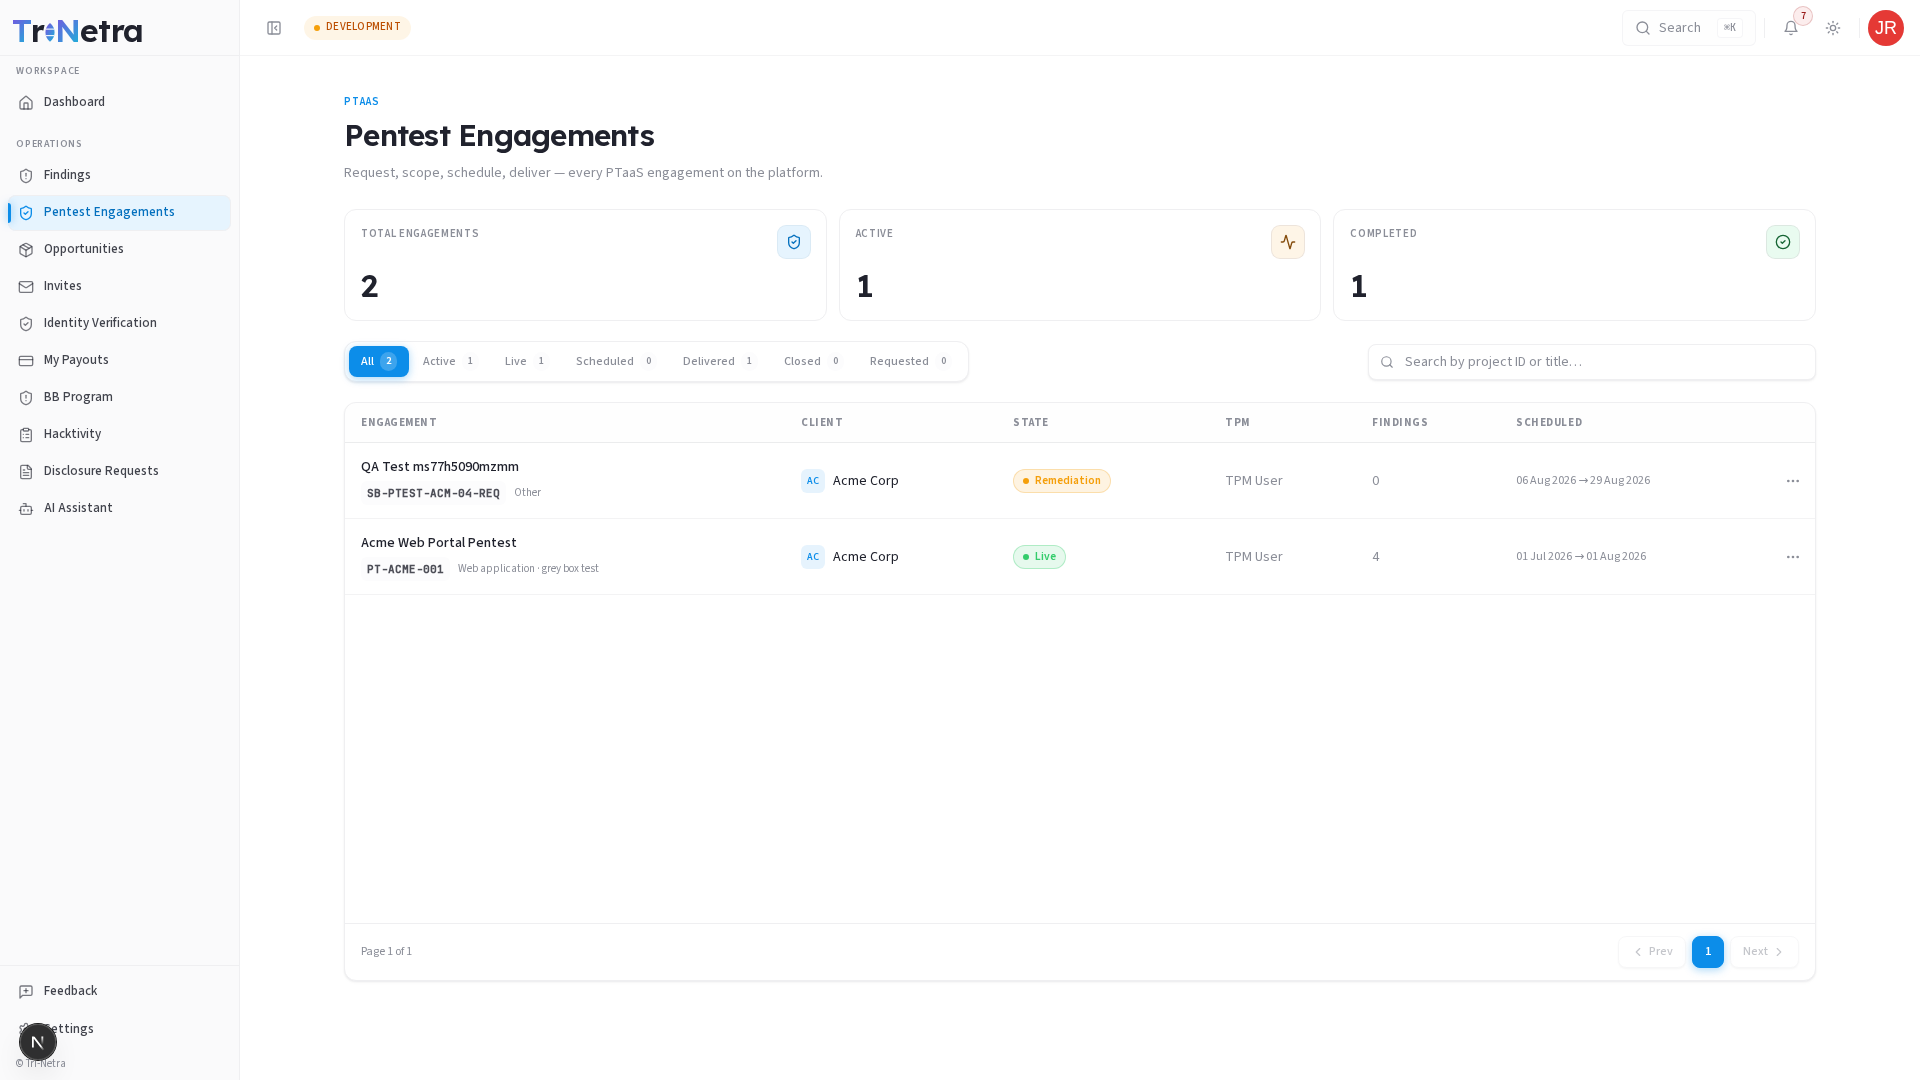
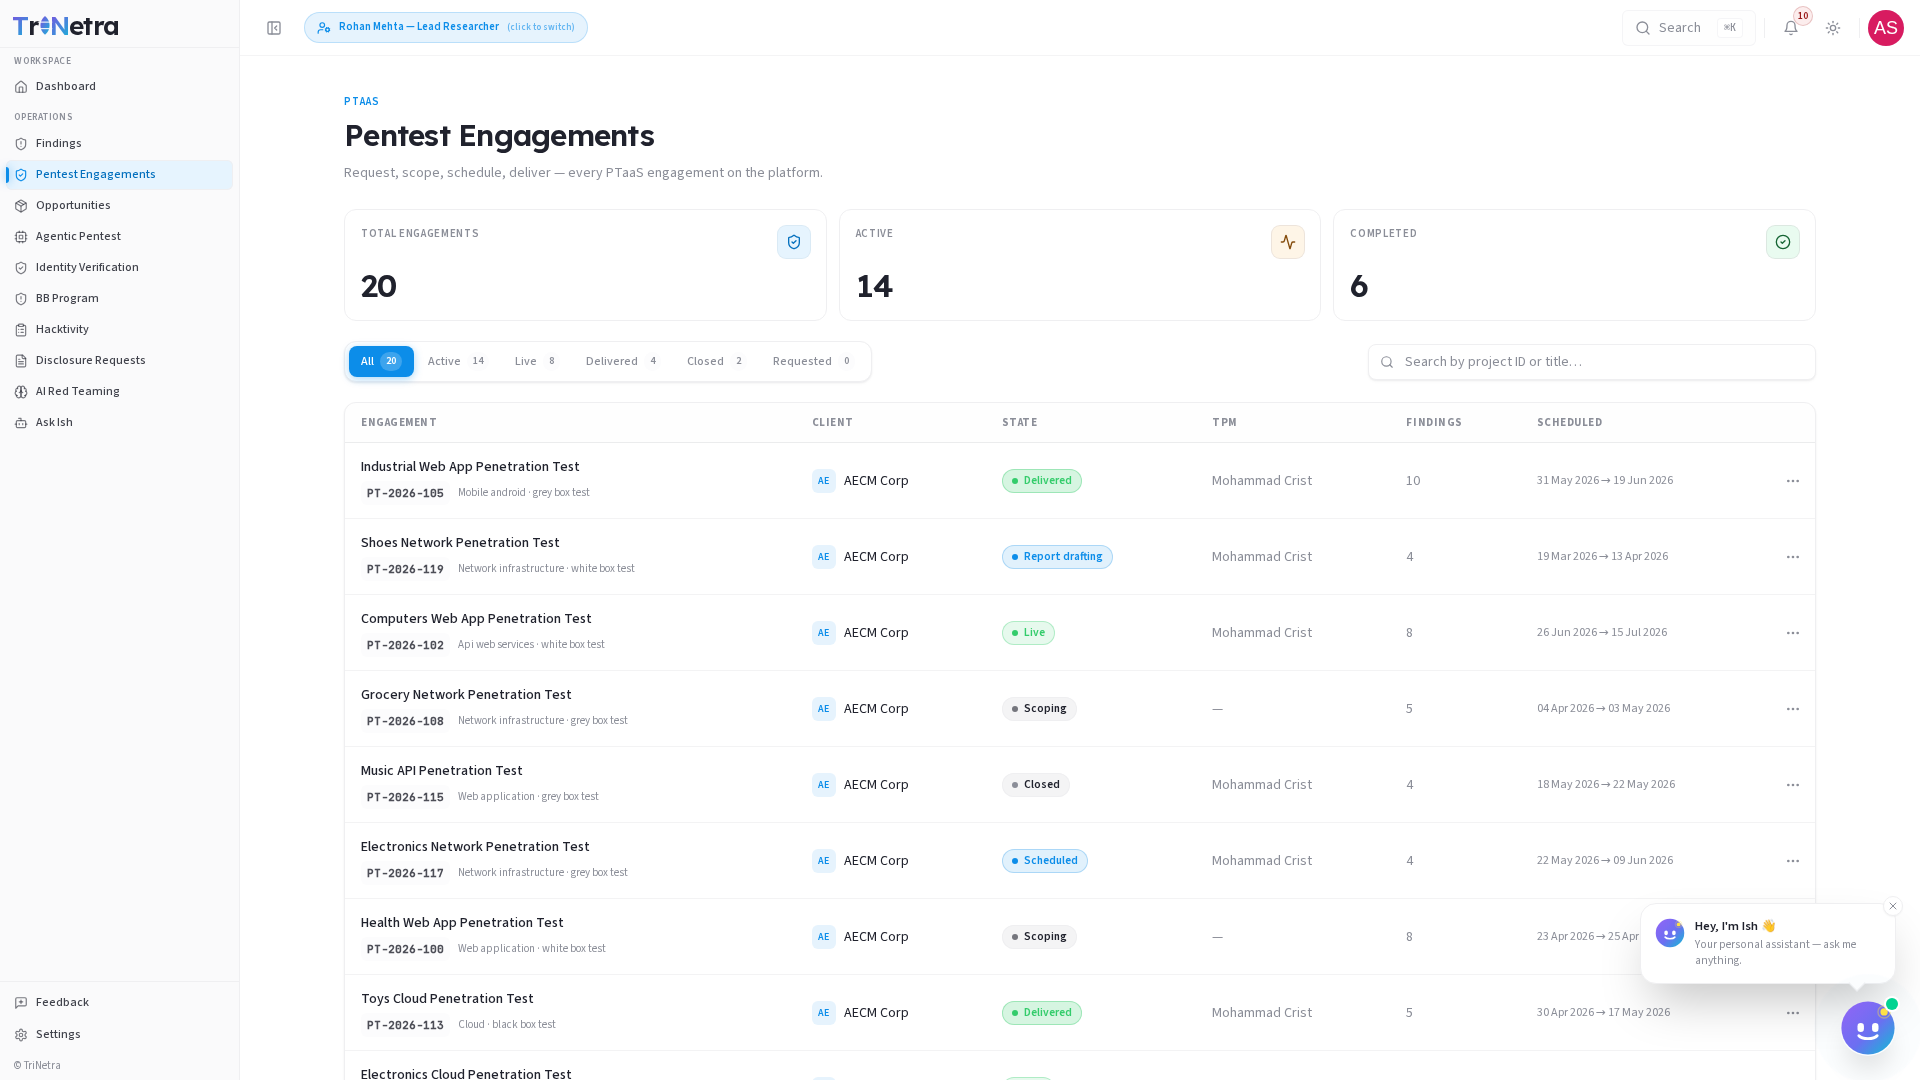
Add in-depth researcher engagement reports page and update navigation

diff --git a/docs/researcher/engagements/detail/reports.md b/docs/researcher/engagements/detail/reports.md
@@ -1,0 +1,87 @@
+# Reports
+
+The **Reports** tab is a secure, collaborative workspace on the engagement details page. It is visible to the **Lead Researcher**, **TPM**, **CSM**, **Admins**, and **Client** roles.
+
+> [!IMPORTANT]
+> **Role Restriction**: Standard **Researchers** do not have access to this tab. Only the assigned **Lead Researcher** has authorization to author and submit the report narrative.
+
+---
+
+## Report Lifecycle Flow
+
+Reports transition through a structured lifecycle to ensure rigorous review and segregation of duties. The diagram below details the report state machine:
+
+```mermaid
+graph TD
+    DRAFT[State: DRAFT] -->|Lead submits with change note| IN_REVIEW[State: IN_REVIEW]
+    REJECTED[State: REJECTED] -->|Lead updates & resubmits| IN_REVIEW
+    IN_REVIEW -->|TPM/CSM rejects with note| REJECTED
+    IN_REVIEW -->|TPM/CSM marks Pre-Final| PRE_FINAL[State: PRE_FINAL]
+    IN_REVIEW -->|TPM/CSM approves| APPROVED[State: APPROVED / Final]
+    PRE_FINAL -->|TPM/CSM approves| APPROVED
+    APPROVED -->|TPM/CSM re-issues after retests| POST_RETEST_FINAL[State: POST_RETEST_FINAL]
+    
+    IN_REVIEW -.->|SB1_ADMIN Reopens| DRAFT
+    PRE_FINAL -.->|SB1_ADMIN Reopens| DRAFT
+    APPROVED -.->|SB1_ADMIN Reopens| DRAFT
+    POST_RETEST_FINAL -.->|SB1_ADMIN Reopens| DRAFT
+```
+
+---
+
+## Role & State Permission Matrix
+
+Access to view, edit, transition, or download reports is strictly controlled:
+
+| Action | Allowed Roles | Preconditions / States |
+| :--- | :--- | :--- |
+| **View Screen Preview** | Lead Researcher, TPM, CSM, Admins, Clients | All states |
+| **Edit Narrative & Scope** | Lead Researcher, TPM, CSM, Admins | `DRAFT`, `REJECTED` |
+| **Submit for Review** | Lead Researcher, Admins | `DRAFT`, `REJECTED` (requires non-null narrative) |
+| **Reject / Request Revision** | TPM, CSM, Admins | `IN_REVIEW`, `PRE_FINAL` (requires note ≥10 chars) |
+| **Mark Pre-Final** | TPM, CSM, Admins | `IN_REVIEW` |
+| **Mark Final (Approve)** | TPM, CSM, Admins | `IN_REVIEW`, `PRE_FINAL` |
+| **Re-issue Post-Retest Final** | TPM, CSM, Admins | `APPROVED` |
+| **Reopen for Revision** | SB1_ADMIN (Escape Hatch) | `IN_REVIEW`, `PRE_FINAL`, `APPROVED`, `POST_RETEST_FINAL` (reverts to `DRAFT`, requires reason ≥20 chars) |
+| **Download PDF** | Admins, CSM, Clients | `APPROVED`, `POST_RETEST_FINAL` (Lead Researcher is denied) |
+
+---
+
+## Editor Mode Narrative Sections
+
+In **Edit narrative** mode, the author can configure the following narrative components using a rich-text Markdown editor:
+
+| Section Field | Renders In | Content Guidelines |
+| :--- | :--- | :--- |
+| **Title** | Report Cover | Optional. Custom report title (defaults to engagement title if blank). |
+| **Executive Summary** | Section 01 (Top) | One or two paragraphs summarizing what was tested, testing timeline, and headline outcomes. |
+| **Executive Analysis** | Section 01 (Bottom) | Denser posture analysis detailing vulnerability trends, root causes, and strategic risk themes. |
+| **Assessment Limitations** | Section 05 | Optional. List of testing constraints (e.g. timeboxes, blocked credentials). Hidden if left empty. |
+| **Summary of Recommendations** | Section 02 | Structured list of top remediation priorities for the client engineering team. |
+
+---
+
+## Structured Scope Tables Editor
+
+In addition to narrative text, the Lead Researcher maintains the **Scope Detail Tables** (Section 04). These tables map target assets to their operational environments. Columns are fixed per asset type:
+
+| Asset Type | Required Column Fields |
+| :--- | :--- |
+| **Web Application** | URL, Environment |
+| **API / Web Services** | Base URL, Environment |
+| **Mobile Application** | App Name/Binary, Bundle ID, Platform (iOS/Android), Environment |
+| **Cloud Infrastructure** | Account/Subscription ID, Region, Environment |
+| **Thick Client** | App Name, Version, Environment |
+| **IoT / Embedded** | Device Name, Firmware Version, Environment |
+| **Other** | Name, Notes |
+
+---
+
+## Document Control & Auditing
+
+*   **Description of Changes**: Every forward state transition (Submit, Pre-Final, Approve, Re-issue) requires the operator to input a description of changes (minimum 5 characters). This note is saved directly to the version history and renders in the report's Document Control log.
+*   **SB1_ADMIN Reopen Log**: Reopening an approved report is an audit-logged event. It drops the report back to `DRAFT` (removing it from client view) and requires a justification note of at least 20 characters, which is stored in the 7-year regulatory audit database.
+
+---
+
+← Previous: [Analytics](analytics.md) | Next: [Chat →](chat.md)

diff --git a/docs/researcher/engagements/detail/findings.md b/docs/researcher/engagements/detail/findings.md
@@ -4,6 +4,8 @@ The **Findings** tab displays all security issues identified during the engageme
 
 ---
 
+![Findings Tab](../../../images/res_engagement_findings.png)
+
 ## Findings List
 
 The page lists the findings submitted for this engagement:
@@ -19,7 +21,11 @@ Clicking any row opens the finding details page. Here, you can review client com
 
 ## Submitting a Finding
 
-During the **Live** phase, click the **Submit finding** button on the top right of the Findings tab. Complete the form across the following sections:
+During the **Live** phase, click the **Submit finding** button on the top right of the Findings tab. A drawer opens with the structured finding form:
+
+![Submit Finding Drawer — Top](../../../images/res_engagement_submit_finding_top.png)
+
+Complete the form across the following sections:
 
 ### 1. Title & Classification
 *   **Title**: Write a descriptive title (e.g., *"SQL Injection in Search API"*).
@@ -43,6 +49,9 @@ Compute the CVSS v4.0 score by filling out the 11 metrics. The platform will aut
 *   **OWASP Risk Rating**: Set Likelihood (0-9) and Impact (0-9) to populate the executive report heat matrix.
 
 ### 5. Technical Details & Endpoints
+
+![Submit Finding Drawer — Bottom](../../../images/res_engagement_submit_finding_bottom.png)
+
 *   **HTTP Method**: GET, POST, PUT, DELETE, etc.
 *   **Endpoint Path / Affected Parameter**: Specific target variables.
 *   **Raw HTTP Request & Response**: Paste the raw HTTP requests and responses to speed up verification.

diff --git a/docs/researcher/bug-bounty/detail/overview.md b/docs/researcher/bug-bounty/detail/overview.md
@@ -4,6 +4,8 @@ When you select a Bug Bounty or VDP program, you land on the **Program Detail** 
 
 ---
 
+![Program Detail Overview](../../../images/res_bb_detail_overview.png)
+
 ## Page Layout & Tab Structure
 
 The diagram below outlines the structural layout of the Program Detail view:
@@ -34,8 +36,7 @@ At the top of the program detail page, the header bar identifies the target at a
 | **Visibility Badge** | Indicates **Public** (blue) or **Private** (purple) access. |
 | **Type Label** | Indicates whether the program is a **VDP** or a **Bug Bounty**. |
 | **Program Name** | The full program name. |
-| **Management Badge** | Shows whether the program is **SB-Managed** (triaged by SecurityBoat) or **Self-Managed** (triaged by client). |
-| **Organization** | The owning organization initials avatar and name. |
+| **Management Badge** | Shows whether the program is **SB-Managed** (triaged by SecurityBoat) or **Self-Managed** (triaged by Organization). |
 
 ### Summary KPI Tiles
 

diff --git a/docs/researcher/engagements/detail/chat.md b/docs/researcher/engagements/detail/chat.md
@@ -4,6 +4,8 @@ The **Chat** tab is a secure, real-time messaging workspace built into the engag
 
 ---
 
+![Chat Tab](../../../images/res_engagement_chat.png)
+
 ## Channels & Scope
 
 The chat tab is structured as a multi-party group channel containing:
@@ -41,4 +43,4 @@ Please observe the following guidelines when using the chat:
 
 ---
 
-← Previous: [Analytics](analytics.md) | Back to: [Engagements Overview](../overview.md)
+← Previous: [Reports](reports.md) | Back to: [Engagements Overview](../overview.md)

diff --git a/docs/researcher/engagements/detail/analytics.md b/docs/researcher/engagements/detail/analytics.md
@@ -4,6 +4,8 @@ The **Analytics** tab provides visual representations and charts summarizing the
 
 ---
 
+![Analytics Tab](../../../images/res_engagement_analytics.png)
+
 ## Visual Dashboards
 
 The analytics page displays three primary metrics:
@@ -19,4 +21,4 @@ A timeline graph tracking the cumulative number of vulnerabilities discovered ov
 
 ---
 
-← Previous: [Findings](findings.md) | Next: [Chat →](chat.md)
+← Previous: [Findings](findings.md) | Next: [Reports →](reports.md)

diff --git a/docs/researcher/bug-bounty/detail/rewards.md b/docs/researcher/bug-bounty/detail/rewards.md
@@ -4,6 +4,8 @@ The **Rewards** tab defines the incentive structure of the program. Depending on
 
 ---
 
+![Rewards Tab](../../../images/res_bb_detail_rewards.png)
+
 ## Monetary Payout Grid (Bug Bounty)
 
 For paid Bug Bounty programs, rewards are structured into a tier-based grid matching the severity classification of findings. Severity is determined using the **CVSS v4.0** score calculated during submission:

diff --git a/docs/researcher/bug-bounty/detail/leaderboard.md b/docs/researcher/bug-bounty/detail/leaderboard.md
@@ -4,6 +4,8 @@ The **Leaderboard** tab highlights the top-performing researchers who have succe
 
 ---
 
+![Leaderboard Tab](../../../images/res_bb_detail_leaderboard.png)
+
 ## Leaderboard Rankings
 
 Researchers are ranked based on the total **Reputation Points** earned on this specific program. The tab features:

diff --git a/docs/researcher/bug-bounty/detail/integrations.md b/docs/researcher/bug-bounty/detail/integrations.md
@@ -4,6 +4,8 @@ The **Integrations** tab lists third-party tools that have been linked to this p
 
 ---
 
+![Integrations Tab](../../../images/res_bb_detail_integrations.png)
+
 ## Active Integrations
 
 While researchers do not configure integrations, you can see which tools are connected (e.g., **Jira**).

diff --git a/docs/researcher/engagements/detail/coverage.md b/docs/researcher/engagements/detail/coverage.md
@@ -6,6 +6,8 @@ Completing the coverage checklist is a critical requirement of the penetration t
 
 ---
 
+![Coverage Tab](../../../images/res_engagement_coverage.png)
+
 ## Logging Coverage Workflow
 
 The flowchart below illustrates the process for completing and logging a methodology checklist item:

diff --git a/docs/researcher/bug-bounty/detail/updates.md b/docs/researcher/bug-bounty/detail/updates.md
@@ -4,6 +4,8 @@ The **Updates** tab is the official communication board for the program. It is m
 
 ---
 
+![Updates Tab](../../../images/res_bb_detail_updates.png)
+
 ## What is Posted in Updates?
 
 Whenever an important change is made to the program, an update is posted. Common updates include:

diff --git a/docs/researcher/bug-bounty/detail/collaborators.md b/docs/researcher/bug-bounty/detail/collaborators.md
@@ -4,6 +4,8 @@ The **Collaborators** tab lists the registered researchers who are actively part
 
 ---
 
+![Collaborators Tab](../../../images/res_bb_detail_collaborators.png)
+
 ## Collaborator List
 
 The tab provides a roster of participants, allowing you to see your fellow security testers:

diff --git a/docs/researcher/engagements/detail/team.md b/docs/researcher/engagements/detail/team.md
@@ -4,6 +4,8 @@ The **Team** tab lists the full security team roster assigned to the engagement,
 
 ---
 
+![Team Tab](../../../images/res_engagement_team.png)
+
 ## Communication & Collaboration Hierarchy
 
 The hierarchy diagram below illustrates how communication flows during an engagement:
